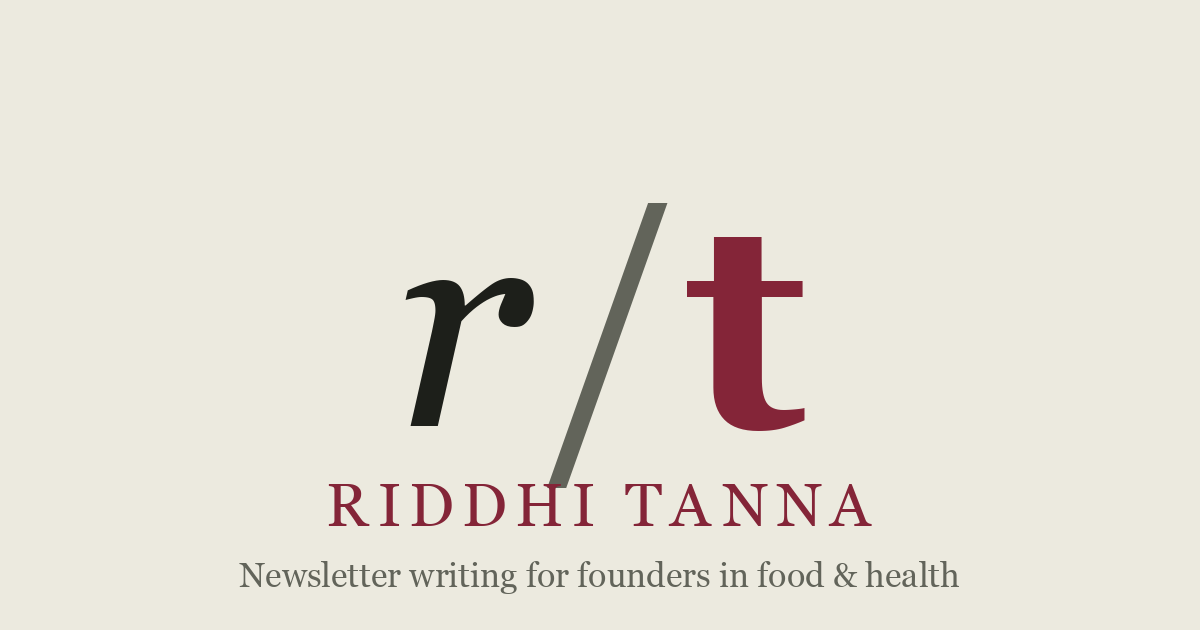
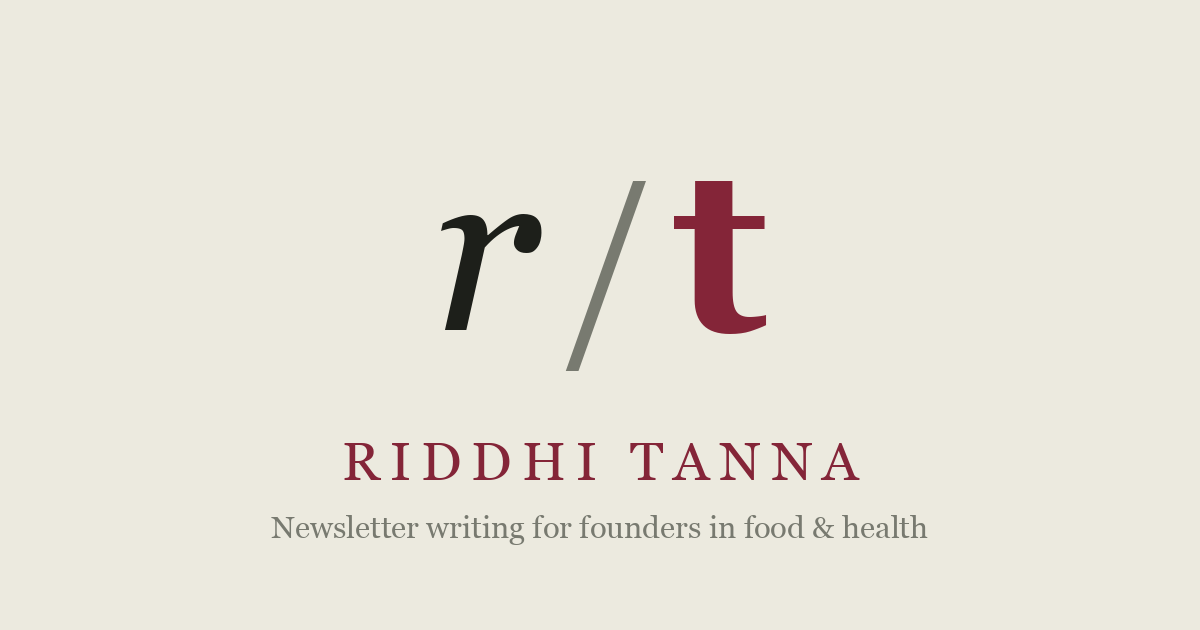
Improve OG card spacing (slash no longer overlaps name); home About -> About me

Changed region(s): [[0.185, 0.2714, 0.8017, 0.9349]]

diff --git a/index.html b/index.html
@@ -411,7 +411,7 @@
 
     <!-- ABOUT -->
     <section class="band" id="about" aria-label="About Riddhi">
-      <h2 class="sec-h">About</h2>
+      <h2 class="sec-h">About me</h2>
       <p class="lede-big">Before becoming a writer, I worked across business, engineering and product in startups, learning how to turn messy ideas into clear narratives.</p>
       <p>After a health breakdown, I became deeply interested in gut health, food systems and Ayurveda. That curiosity eventually became The Second Helping, my newsletter on food, body and culture, and it's also why I love working with founders building in this space.</p>
     </section>
